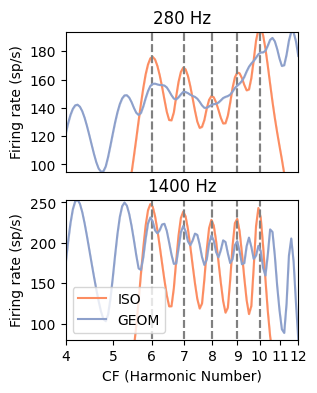
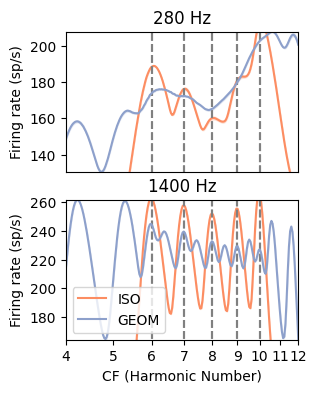
Rough versions of fig3/fig6 code

diff --git a/functions.py b/functions.py
@@ -39,11 +39,11 @@ class ISOToneGuest2021_exp1a(sy.Synthesizer):
         freqs = F0*np.array([6, 7, 8, 9, 10])
         if level is None:
             level = 40*np.ones(len(freqs))  # default to 40 dB SPL per component
-        elif type(level) is float:
+        elif type(level) is float or type(level) is int:
             level = level*np.ones(len(freqs))  # default to 40 dB SPL per component
         if phase is None:
             phase = np.zeros(len(freqs))  # default to sine phase
-        elif type(phase) is float:
+        elif type(phase) is float or type(phase) is int:
             phase = phase + np.zeros(len(freqs))
         # Synthesize, filter, and ramp complex tone signal
         signal = sg.complex_tone(freqs, level, phase, dur, fs)
@@ -59,7 +59,8 @@ class ISOToneGuest2021(sy.Synthesizer):
     def __init__(self):
         super().__init__(stimulus_name='ISO Tone')
 
-    def synthesize(self, F0, dur=0.350, dur_ramp=0.02, level=None, phase=None, fs=int(48e3), ten=False, TMR=0, **kwargs):
+    def synthesize(self, F0, dur=0.350, dur_ramp=0.02, level=None, phase=None, fs=int(48e3), ten=False, level_noise=0,
+                   **kwargs):
         """
         Synthesizes a harmonic complex tone composed of all components of the F0 up to the 24000 Hz (the Nyquist
         frequency for the 48 kHz sampling rate used in the paper). Then, the tone is bandpass filtered from 5.5x to
@@ -75,8 +76,7 @@ class ISOToneGuest2021(sy.Synthesizer):
             dur (float): duration in seconds
             dur_ramp (float): duration of raised-cosine ramp in seconds
             ten (bool): whether or not to include threshold-equalizing masking noise
-            TMR (float): the target-to-masker ratio at which to synthesize noise (if ten is True). Measured in terms of
-                per-component level of the tones vs level of the noise in the ERB centered at 1 kHz.
+            level_noise (float): the level at which to synthesize the TEN, in dB SPL
             fs (int): sampling rate in Hz
 
         Returns:
@@ -89,11 +89,11 @@ class ISOToneGuest2021(sy.Synthesizer):
         freqs = np.arange(F0, 48000 / 2, F0)  # up to Nyquist for fs=48
         if level is None:
             level = 40*np.ones(len(freqs))  # default to 40 dB SPL per component
-        elif type(level) is float:
+        elif type(level) is float or type(level) is int:
             level = level*np.ones(len(freqs))  # default to 40 dB SPL per component
         if phase is None:
             phase = np.zeros(len(freqs))  # default to sine phase
-        elif type(phase) is float:
+        elif type(phase) is float or type(phase) is int:
             phase = phase + np.zeros(len(freqs))
         # Synthesize, filter, and ramp complex tone signal
         signal = sg.complex_tone(freqs, level, phase, dur, fs)
@@ -101,7 +101,7 @@ class ISOToneGuest2021(sy.Synthesizer):
         signal = sg.cosine_ramp(signal, dur_ramp, fs)
         # Synthesize noise
         if ten:
-            signal = signal + sg.cosine_ramp(sg.te_noise(dur, fs, 0, fs/2, level-TMR), dur_ramp, fs)
+            signal = signal + sg.cosine_ramp(sg.te_noise(dur, fs, 0, fs/2, level_noise), dur_ramp, fs)
         # Return
         return signal
 
@@ -113,8 +113,8 @@ class GEOMToneGuest2021(sy.Synthesizer):
     def __init__(self):
         super().__init__(stimulus_name='GEOM Tone')
 
-    def synthesize(self, F0, F0_masker, dur=0.350, dur_ramp=0.02, level=None, phase=None, ten=False, TMR=0,
-                   fs=int(48e3), **kwargs):
+    def synthesize(self, F0, F0_masker, dur=0.350, dur_ramp=0.02, level=None, phase=None, level_masker=None,
+                   phase_masker=None, ten=False, level_noise=0, fs=int(48e3), **kwargs):
         """
         Synthesizes a harmonic complex tone composed of all components of the F0 up to the 24000 Hz (the Nyquist
         frequency for the 48 kHz sampling rate used in the paper). Then, the tone is bandpass filtered from 5.5x to
@@ -130,8 +130,7 @@ class GEOMToneGuest2021(sy.Synthesizer):
                 the phase offset of each component.
             dur_ramp (float): duration of raised-cosine ramp in seconds
             ten (bool): whether or not to include threshold-equalizing masking noise
-            TMR (float): the target-to-masker ratio at which to synthesize noise (if ten is True). Measured in terms of
-                per-component level of the tones vs level of the noise in the ERB centered at 1 kHz.
+            level_noise (float): the level at which to synthesize the TEN, in dB SPL
             fs (int): sampling rate in Hz
 
         Returns:
@@ -147,11 +146,11 @@ class GEOMToneGuest2021(sy.Synthesizer):
         freqs = np.arange(F0, 48000 / 2, F0)  # up to Nyquist for fs=48
         if level is None:
             level = 40*np.ones(len(freqs))  # default to 40 dB SPL per component
-        elif type(level) is float:
+        elif type(level) is float or type(level) is int:
             level = level*np.ones(len(freqs))  # default to 40 dB SPL per component
         if phase is None:
             phase = np.zeros(len(freqs))  # default to sine phase
-        elif type(phase) is float:
+        elif type(phase) is float or type(phase) is int:
             phase = phase + np.zeros(len(freqs))
         # Synthesize, filter, and ramp complex tone signal
         signal = sg.complex_tone(freqs, level, phase, dur, fs)
@@ -159,21 +158,21 @@ class GEOMToneGuest2021(sy.Synthesizer):
         signal = sg.cosine_ramp(signal, dur_ramp, fs)
         # Create array of frequencies, levels, and phases for the masker
         freqs_masker = np.arange(F0_masker, 48000 / 2, F0_masker)  # up to Nyquist for fs=48
-        if level is None:
+        if level_masker is None:
             level_masker = 40*np.ones(len(freqs_masker))  # default to 40 dB SPL per component
-        elif type(level) is float:
-            level_masker = level*np.ones(len(freqs_masker))  # default to 40 dB SPL per component
-        if phase is None:
+        elif type(level_masker) is float or type(level_masker) is int:
+            level_masker = level_masker*np.ones(len(freqs_masker))  # default to 40 dB SPL per component
+        if phase_masker is None:
             phase_masker = np.zeros(len(freqs_masker))  # default to sine phase
-        elif type(phase) is float:
-            phase_masker = phase + np.zeros(len(freqs_masker))
+        elif type(phase_masker) is float or type(phase_masker) is int:
+            phase_masker = phase_masker + np.zeros(len(freqs_masker))
         # Synthesize, filter, and ramp complex tone signal
         masker = sg.complex_tone(freqs_masker, level_masker, phase_masker, dur, fs)
         masker = sosfiltfilt(sos_masker, masker)
         masker = sg.cosine_ramp(masker, dur_ramp, fs)
         # Synthesize noise
         if ten:
-            signal = signal + sg.cosine_ramp(sg.te_noise(dur, fs, 0, fs/2, level-TMR), dur_ramp, fs)
+            signal = signal + sg.cosine_ramp(sg.te_noise(dur, fs, 0, fs/2, level_noise), dur_ramp, fs)
         # Return
         return signal + masker
 

diff --git a/figure3/figure3.py b/figure3/figure3.py
@@ -1,11 +1,11 @@
 import apcmodels.simulation as si
 import apcmodels.anf as anf
 import numpy as np
-from functions import ISOToneGuest2021, GEOMToneGuest2021
+from functions import ISOToneGuest2021, GEOMToneGuest2021, adjust_level
 import matplotlib.pyplot as plt
 
 
-def plot_ep(axis_main, F0, condition, level, TMR, title, first, color, fs=int(100e3)):
+def plot_ep(axis_main, F0, condition, level, level_noise, title, first, color, fs=int(100e3)):
     """
     Function to plot excitation pattern of a single tone from Experiment 1.
 
@@ -18,8 +18,9 @@ def plot_ep(axis_main, F0, condition, level, TMR, title, first, color, fs=int(10
         color ???
     """
     # Set up simulation and stimulus parameters
-    params = si.Parameters(F0=F0, F0_masker=F0 * 2 ** (1 / 12), level=level, ten=True, TMR=TMR, fs=fs, cf_low=F0 * 4,
-                           cf_high=F0 * 12, n_cf=100, fiber_type='msr')
+    params = si.Parameters(F0=F0, F0_masker=F0 * 2 ** (1 / 12), level=float(adjust_level(F0*8, level, 'Zilany2014')),
+                           level_masker=float(adjust_level(F0*8, level, 'Zilany2014')), ten=True,
+                           level_noise=level_noise, fs=fs, cf_low=F0 * 4, cf_high=F0 * 12, n_cf=200, fiber_type='msr')
     params.repeat(10)
     # Synthesize stimuli
     if condition == 'ISO':
@@ -33,7 +34,7 @@ def plot_ep(axis_main, F0, condition, level, TMR, title, first, color, fs=int(10
     sim = anf.AuditoryNerveZilany2014()
     resp = sim.run(params, parallel=True)
     # Calculate cfs
-    cfs = 10**np.linspace(np.log10(F0*4), np.log10(F0*12), 100)
+    cfs = 10**np.linspace(np.log10(F0*4), np.log10(F0*12), 200)
     # Calculate mean over time
     firing_rates = np.array([np.mean(r, axis=1) for r in resp])
     mean_response = np.mean(firing_rates, axis=0)
@@ -59,9 +60,9 @@ def plot_ep(axis_main, F0, condition, level, TMR, title, first, color, fs=int(10
 
 # Plot excitation patterns
 f, (a0, a1) = plt.subplots(2, 1, figsize=(3, 4))
-plot_ep(a0, 280, 'ISO', 50, 10, '280 Hz', True, '#fc8d62')
-plot_ep(a0, 280, 'GEOM', 50, 10, '280 Hz', True, '#8da0cb')
-plot_ep(a1, 1400, 'ISO', 50, 10, '1400 Hz', False, '#fc8d62')
-plot_ep(a1, 1400, 'GEOM', 50, 10, '1400 Hz', False, '#8da0cb')
+plot_ep(a0, 280, 'ISO', 50, 40, '280 Hz', True, '#fc8d62')
+plot_ep(a0, 280, 'GEOM', 50, 40, '280 Hz', True, '#8da0cb')
+plot_ep(a1, 1400, 'ISO', 50, 40, '1400 Hz', False, '#fc8d62')
+plot_ep(a1, 1400, 'GEOM', 50, 40, '1400 Hz', False, '#8da0cb')
 plt.legend(['ISO', 'GEOM'])
 plt.savefig('plots/fig3.png', bbox_inches='tight')

diff --git a/figure6/figure6a.py b/figure6/figure6a.py
@@ -1,0 +1,52 @@
+import apcmodels.simulation as si
+import apcmodels.anf as anf
+import numpy as np
+from functions import ISOToneGuest2021, adjust_level
+import matplotlib.pyplot as plt
+
+# Configure figure
+fig, ax = plt.subplots(nrows=2, ncols=3, figsize=(10, 4))
+
+# Run simulations
+for idx_harmonic, harmonic in enumerate([8, 8.5]):
+    for idx_F0, F0 in enumerate([280, 620, 1400]):
+        for bool_noise, color, linewidth in zip([False, True], ['#fc8d62', 'gray'], [2, 1]):
+            # Set up params
+            params = si.Parameters(fs=int(200e3), fiber_type='hsr', n_cf=1, cf_low=F0*harmonic, cf_high=F0*harmonic,
+                                   F0=F0, dur=(1/F0)*100, level=float(adjust_level(F0*8, 50, 'Zilany2014')),
+                                   level_noise=float(adjust_level(F0*8, 40, 'Zilany2014')), ten=bool_noise)
+            params.repeat(10)
+            params.flatten()
+            stim = ISOToneGuest2021()
+            params.add_inputs(stim.synthesize_sequence(params))
+            sim = anf.AuditoryNerveZilany2014()
+            results = sim.run(params)
+            means = np.squeeze(np.mean(results, axis=0))
+            std = np.squeeze(np.std(results, axis=0))
+            x_axis = np.linspace(0, means.shape[0]/200e3, means.shape[0])/(1/F0) - 35  # move onset to 35th cycle
+            ax[idx_harmonic][idx_F0].plot(x_axis, means, color=color, linewidth=linewidth)
+            ax[idx_harmonic][idx_F0].fill_between(x_axis, np.squeeze(means - std), np.squeeze(means + std),
+                                   color=color, alpha=0.2, label='_nolegend_')
+            # Handle axes
+            if idx_harmonic == 0:
+                ax[idx_harmonic][idx_F0].get_xaxis().set_visible(False)
+            else:
+                ax[idx_harmonic][idx_F0].set_xlabel('Time (periods of F0)')
+            if idx_F0 > 0:
+                ax[idx_harmonic][idx_F0].get_yaxis().set_visible(False)
+            else:
+                ax[idx_harmonic][idx_F0].set_ylabel('Firing rate (sp/s)')
+            ax[idx_harmonic][idx_F0].set_xlim((0, 5))
+            ax[idx_harmonic][idx_F0].set_ylim((0, 1000))
+plt.tight_layout()
+plt.savefig('plots/fig6.png')
+
+res = []
+for ii in range(100):
+    x = ISOToneGuest2021().synthesize(F0=280, dur=1, dur_ramp=0.02, level=50, fs=int(48e3), ten=True, level_noise=50)
+    X = 20*np.log10(np.abs(np.fft.fft(x)))
+    res.append(X)
+X = np.mean(np.array(res), axis=0)
+plt.plot(X-np.max(X))
+plt.xlim((0, 5000))
+plt.ylim((-40, 5))
